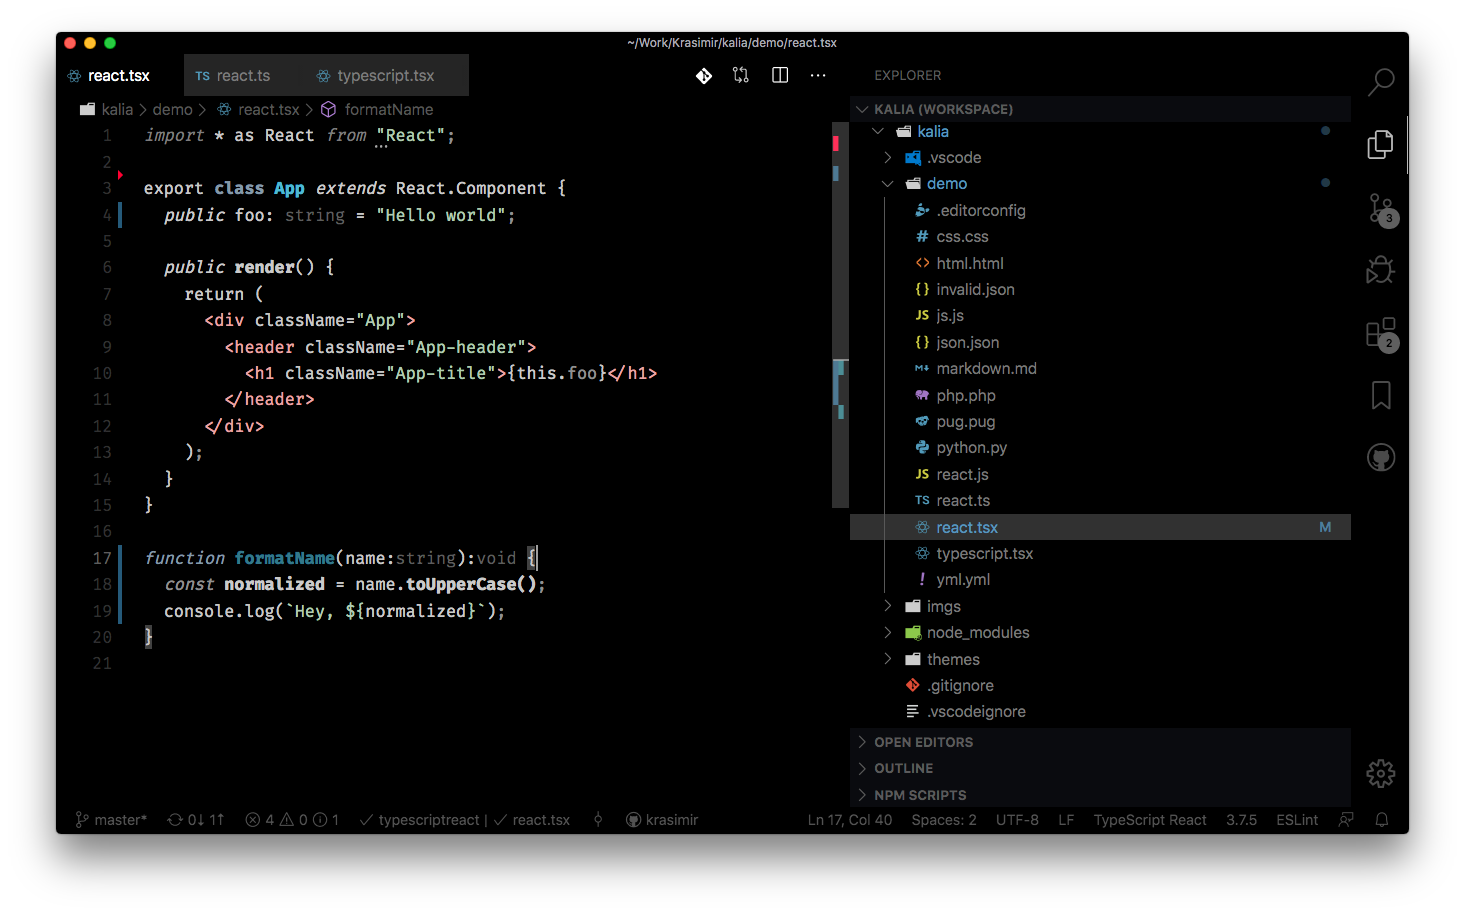
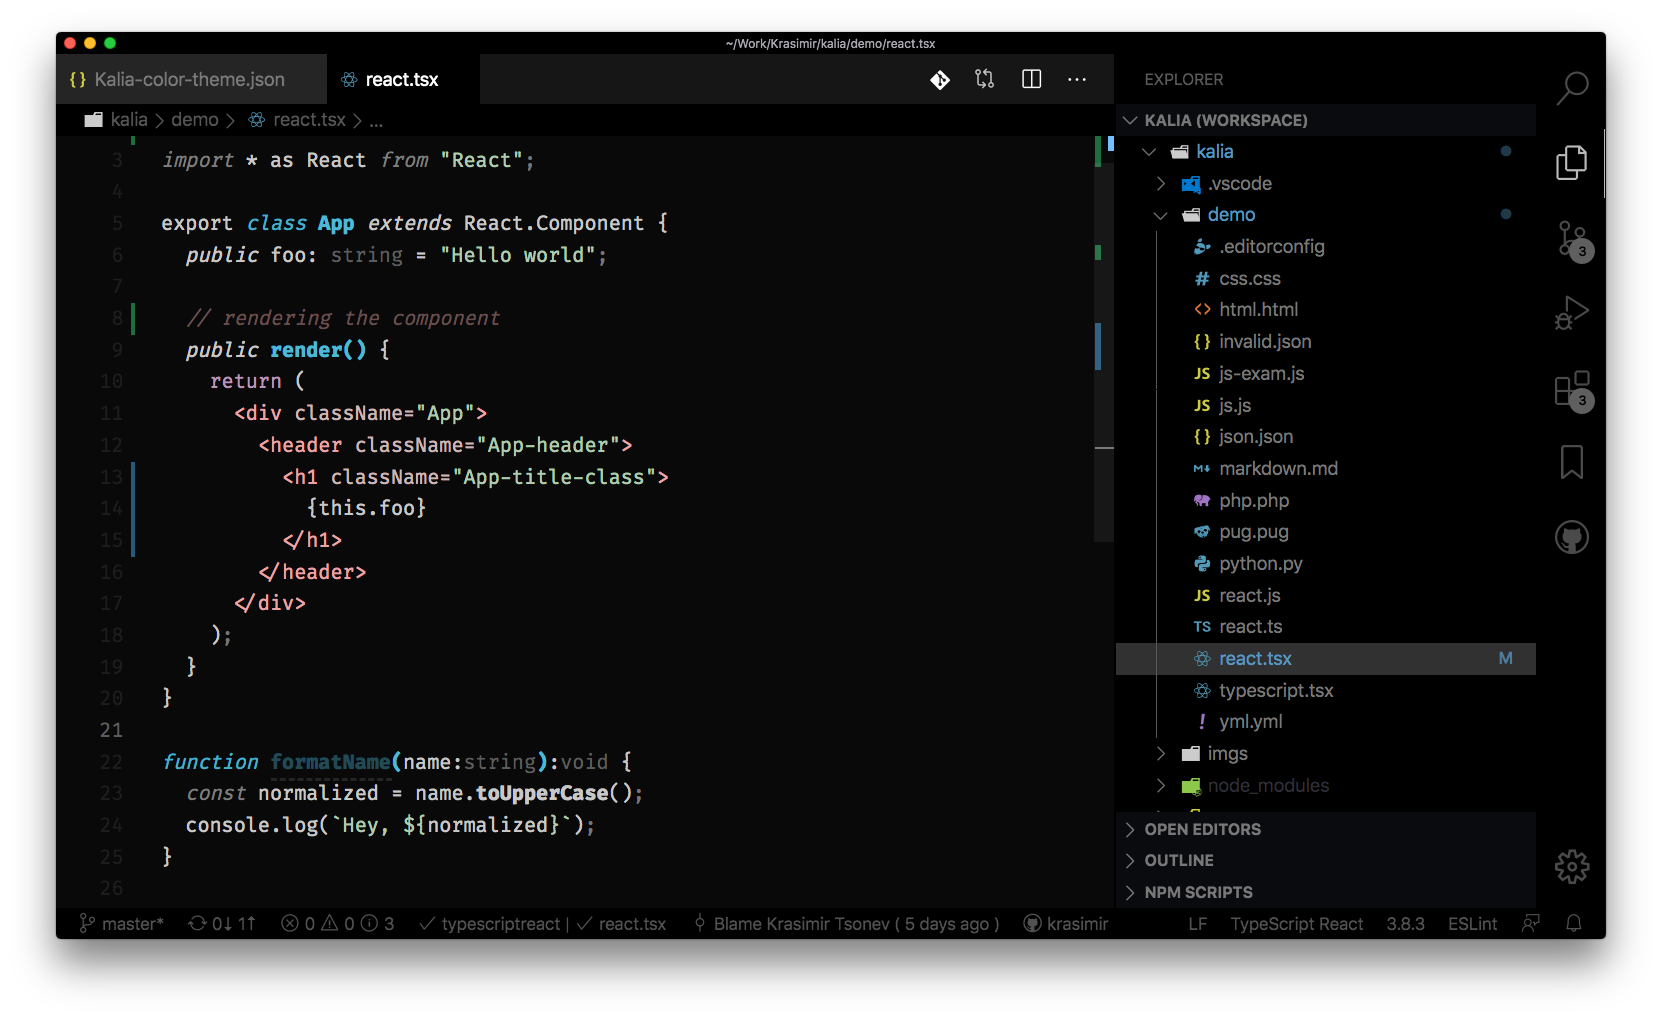
Updateing README and preview

Changed region(s): [[0.0307, 0.0306, 0.9829, 0.9497], [0.0922, 0.7352, 0.3993, 0.8271], [0.8908, 0.1838, 0.9215, 0.2144]]

diff --git a/demo/react.tsx b/demo/react.tsx
@@ -1,13 +1,18 @@
+// @ts-nocheck
+
 import * as React from "React";
 
 export class App extends React.Component {
   public foo: string = "Hello world";
 
+  // rendering the component
   public render() {
     return (
       <div className="App">
         <header className="App-header">
-          <h1 className="App-title">{this.foo}</h1>
+          <h1 className="App-title-class">
+            {this.foo}
+          </h1>
         </header>
       </div>
     );

diff --git a/README.md b/README.md
@@ -1,12 +1,12 @@
 # Kalia
 
-Kalia is a [VSCode](https://code.visualstudio.com/) theme for those of you that like dark themes. But it's not just about beautiful colors. Kalia is styling your code based on context. Think about a string. If it is used as a function argument is one color and if it is placed as a tag attribute is another.
+Kalia is a [VSCode](https://code.visualstudio.com/) extension/dark theme.
 
-Here are the main characteristics:
+Here is what you get:
 
-* Pastel colors near monochromic
-* Balanced contrast
-* Contextual colors
+* Pastel colors near monochromic. Contextual syntax-highlighting.
+* Balanced contrast.
+* A tick line on the left showing the top function scope.
 
 ![Kalia VSCode Theme](./preview.png)
 
